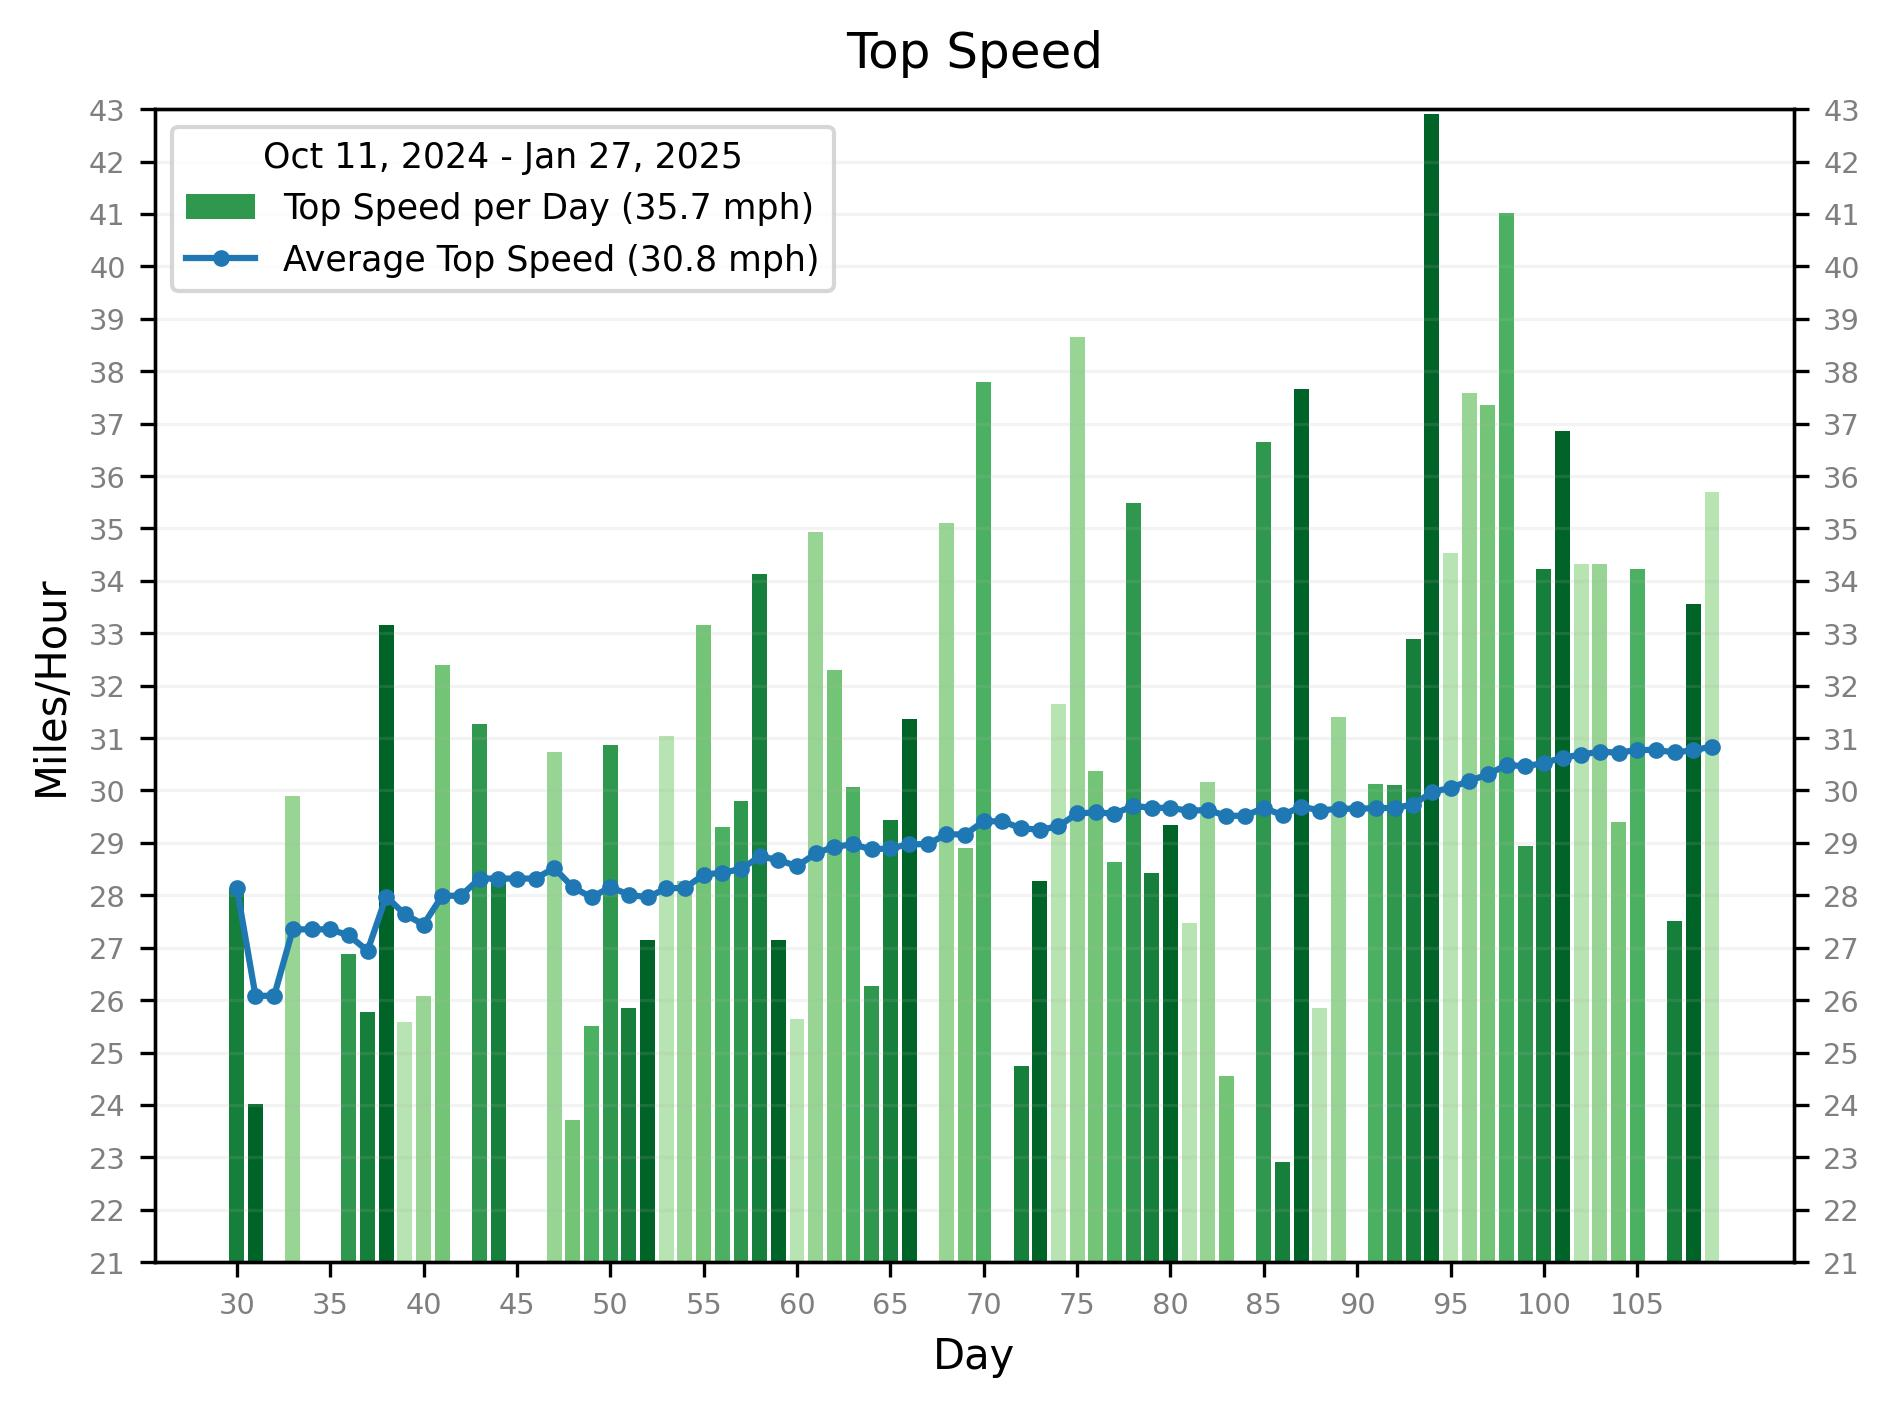
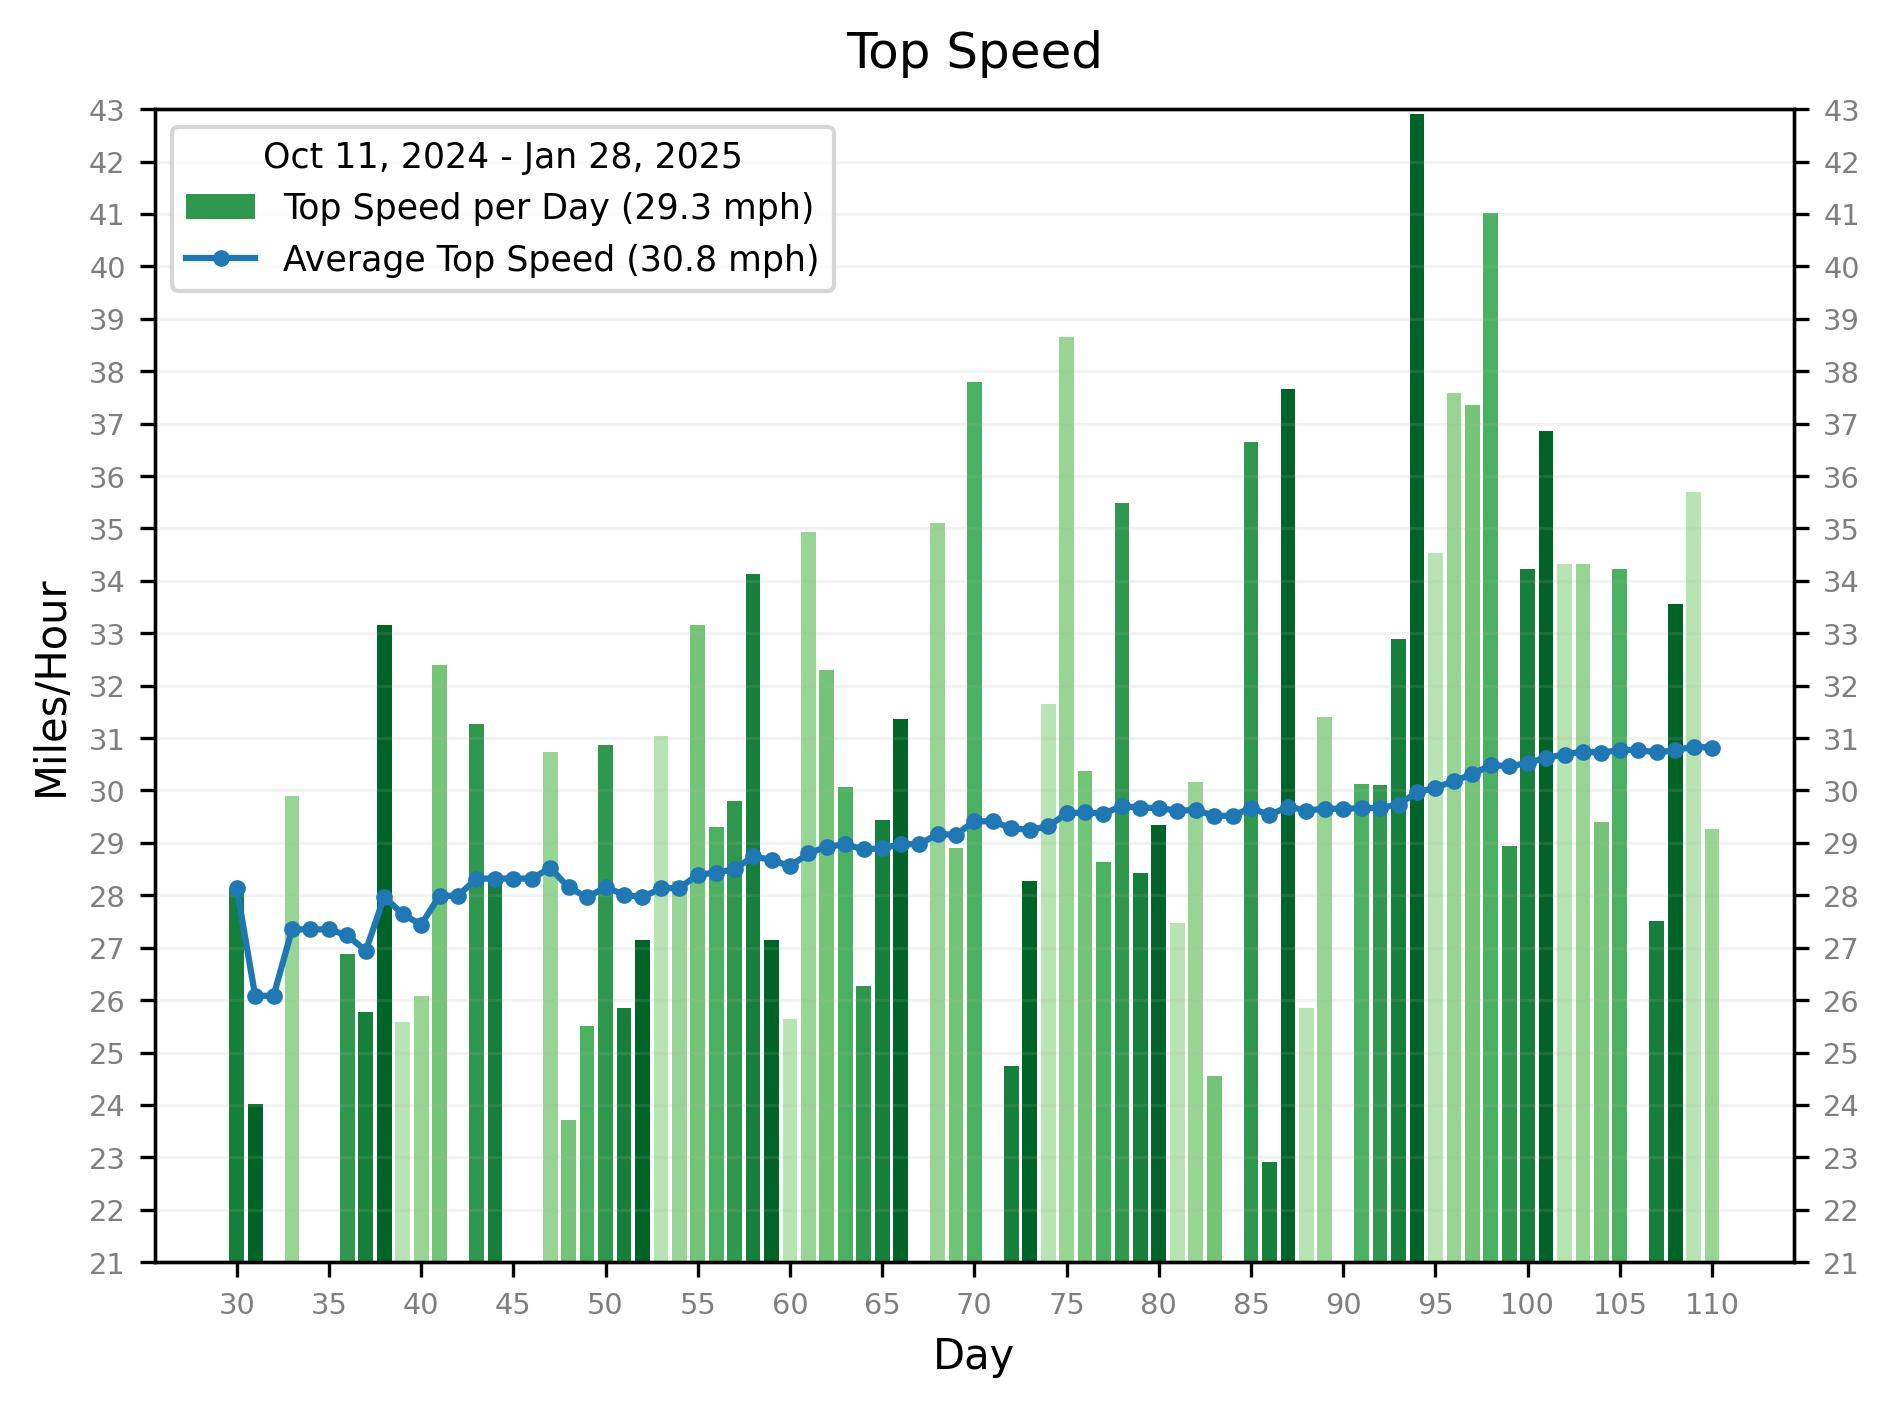
publish updates

Changed region(s): [[0.1561, 0.0625, 0.9365, 0.9375], [0.3434, 0.125, 0.3746, 0.1562], [0.3122, 0.0938, 0.3434, 0.125]]

diff --git a/docs/summary/daily/last30.html b/docs/summary/daily/last30.html
@@ -1,7 +1,7 @@
 <pre>
 Period: Last 30 Days
 <br>
-Date range: 2024-12-29 to 2025-01-27
+Date range: 2024-12-30 to 2025-01-28
 <br>
 <br>
 days  total  biked  tracked  skipped  ride rate
@@ -11,23 +11,23 @@ days  total  biked  tracked  skipped  ride rate
 <br>
 distance (miles)  min   max   avg   total
                   ----  ----  ----  -------
-                   7.5  27.4  17.4    486.4
+                   7.5  27.4  17.4    487.2
 <br>
 <br>
 speed (mph)  min   max   avg
              ----  ----  ----
-              8.4  13.8  11.7
+              8.4  13.7  11.5
 <br>
 top speed (mph)  min   max   avg
                  ----  ----  ----
-                 22.9  42.9  32.7
+                 22.9  42.9  32.6
 <br>
 <br>
 elevation gain (ft)  min   max   avg   total    total miles
                      ----  ----  ----  -------  -----------
-                      287  2212  1014    27392          5.2
+                      287  2212  1054    28478          5.4
 <br>
 elevation range (ft)  low:  min   max   avg   high:  min   max   avg
                             ----  ----  ----         ----  ----  ----
-                             17   329   153           404  1211   638
+                             17   329   156           404  1602   680
 </pre>

diff --git a/docs/summary/daily/last60.html b/docs/summary/daily/last60.html
@@ -1,7 +1,7 @@
 <pre>
 Period: Last 60 Days
 <br>
-Date range: 2024-11-29 to 2025-01-27
+Date range: 2024-11-30 to 2025-01-28
 <br>
 <br>
 days  total  biked  tracked  skipped  ride rate
@@ -11,7 +11,7 @@ days  total  biked  tracked  skipped  ride rate
 <br>
 distance (miles)  min   max   avg   total
                   ----  ----  ----  -------
-                   7.5  31.4  17.4    973.6
+                   7.5  31.4  17.3    968.0
 <br>
 <br>
 speed (mph)  min   max   avg
@@ -20,14 +20,14 @@ speed (mph)  min   max   avg
 <br>
 top speed (mph)  min   max   avg
                  ----  ----  ----
-                 22.9  42.9  31.6
+                 22.9  42.9  31.5
 <br>
 <br>
 elevation gain (ft)  min   max   avg   total    total miles
                      ----  ----  ----  -------  -----------
-                      287  2212   917    50480          9.6
+                      287  2212   928    51077          9.7
 <br>
 elevation range (ft)  low:  min   max   avg   high:  min   max   avg
                             ----  ----  ----         ----  ----  ----
-                             17   329   147           404  1211   605
+                             17   329   151           404  1602   624
 </pre>

diff --git a/docs/summary/daily/last90.html b/docs/summary/daily/last90.html
@@ -1,17 +1,17 @@
 <pre>
 Period: Last 90 Days
 <br>
-Date range: 2024-10-30 to 2025-01-27
+Date range: 2024-10-31 to 2025-01-28
 <br>
 <br>
 days  total  biked  tracked  skipped  ride rate
       -----  -----  -------  -------  ---------
-         90     81     69        9     90.00%
+         90     81     70        9     90.00%
 <br>
 <br>
 distance (miles)  min   max   avg   total
                   ----  ----  ----  -------
-                   7.1  31.4  16.4   1328.4
+                   7.1  31.4  16.4   1329.5
 <br>
 <br>
 speed (mph)  min   max   avg
@@ -25,9 +25,9 @@ top speed (mph)  min   max   avg
 <br>
 elevation gain (ft)  min   max   avg   total    total miles
                      ----  ----  ----  -------  -----------
-                      287  2212   859    59325         11.2
+                      287  2212   869    60860         11.5
 <br>
 elevation range (ft)  low:  min   max   avg   high:  min   max   avg
                             ----  ----  ----         ----  ----  ----
-                             17   329   146           390  1211   586
+                             17   329   149           390  1602   600
 </pre>

diff --git a/docs/summary/daily/all.html b/docs/summary/daily/all.html
@@ -1,17 +1,17 @@
 <pre>
 Period: All Time
 <br>
-Date range: 2024-10-11 to 2025-01-27
+Date range: 2024-10-11 to 2025-01-28
 <br>
 <br>
 days  total  biked  tracked  skipped  ride rate
       -----  -----  -------  -------  ---------
-        109     99     69       10     90.83%
+        110    100     70       10     90.91%
 <br>
 <br>
 distance (miles)  min   max   avg   total
                   ----  ----  ----  -------
-                   6.9  31.4  15.5   1532.3
+                   6.9  31.4  15.4   1543.4
 <br>
 <br>
 speed (mph)  min   max   avg
@@ -25,9 +25,9 @@ top speed (mph)  min   max   avg
 <br>
 elevation gain (ft)  min   max   avg   total    total miles
                      ----  ----  ----  -------  -----------
-                      287  2212   859    59325         11.2
+                      287  2212   869    60860         11.5
 <br>
 elevation range (ft)  low:  min   max   avg   high:  min   max   avg
                             ----  ----  ----         ----  ----  ----
-                             17   329   146           390  1211   586
+                             17   329   149           390  1602   600
 </pre>
